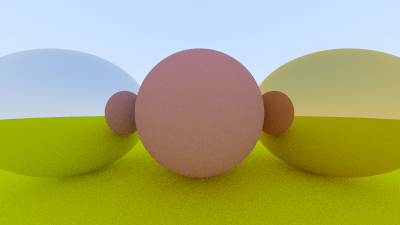
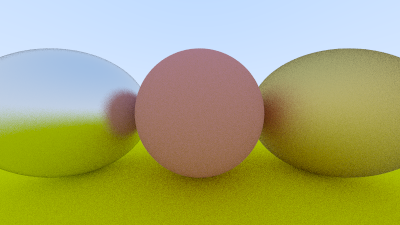
Fuzzy metal reflections

diff --git a/src/material.rs b/src/material.rs
@@ -18,7 +18,7 @@ impl Lambertian {
 }
 
 impl Material for Lambertian {
-    fn scatter(&self, r_in: &Ray, rec: &HitRecord) -> Option<(Ray, Color)> {
+    fn scatter(&self, _: &Ray, rec: &HitRecord) -> Option<(Ray, Color)> {
         let mut scatter_direction = rec.normal + Sphere::random_unit_vector();
 
         if scatter_direction.near_zero() {
@@ -31,19 +31,24 @@ impl Material for Lambertian {
 
 pub struct Metal {
     albedo: Color,
+    fuzz: f64,
 }
 
 impl Metal {
-    pub fn new(albedo: Color) -> Self {
-        Self { albedo }
+    pub fn new(albedo: Color, fuzz: f64) -> Self {
+        Self { albedo, fuzz: fuzz.min(1.0) }
     }
 }
 
 impl Material for Metal {
     fn scatter(&self, r_in: &Ray, rec: &HitRecord) -> Option<(Ray, Color)> {
         let reflected = r_in.direction().unit_vector().reflect(&rec.normal);
-        if reflected.dot(&rec.normal) > 0.0 {
-            Some((Ray::new(rec.p, reflected), self.albedo))
+        let scattered = Ray::new(
+            rec.p,
+            reflected + self.fuzz * Sphere::random_in_unit_sphere().0,
+        );
+        if scattered.direction().dot(&rec.normal) > 0.0 {
+            Some((scattered, self.albedo))
         } else {
             None
         }

diff --git a/src/main.rs b/src/main.rs
@@ -45,8 +45,8 @@ fn main() {
 
     let material_ground = Lambertian::new(Color::new(0.8, 0.8, 0.0));
     let material_center = Lambertian::new(Color::new(0.7, 0.3, 0.3));
-    let material_left = Metal::new(Color::new(0.8, 0.8, 0.8));
-    let material_right = Metal::new(Color::new(0.8, 0.6, 0.2));
+    let material_left = Metal::new(Color::new(0.8, 0.8, 0.8), 0.3);
+    let material_right = Metal::new(Color::new(0.8, 0.6, 0.2), 1.0);
 
     world.push(Sphere::new(
         Point::new(0.0, -100.5, -1.0),
